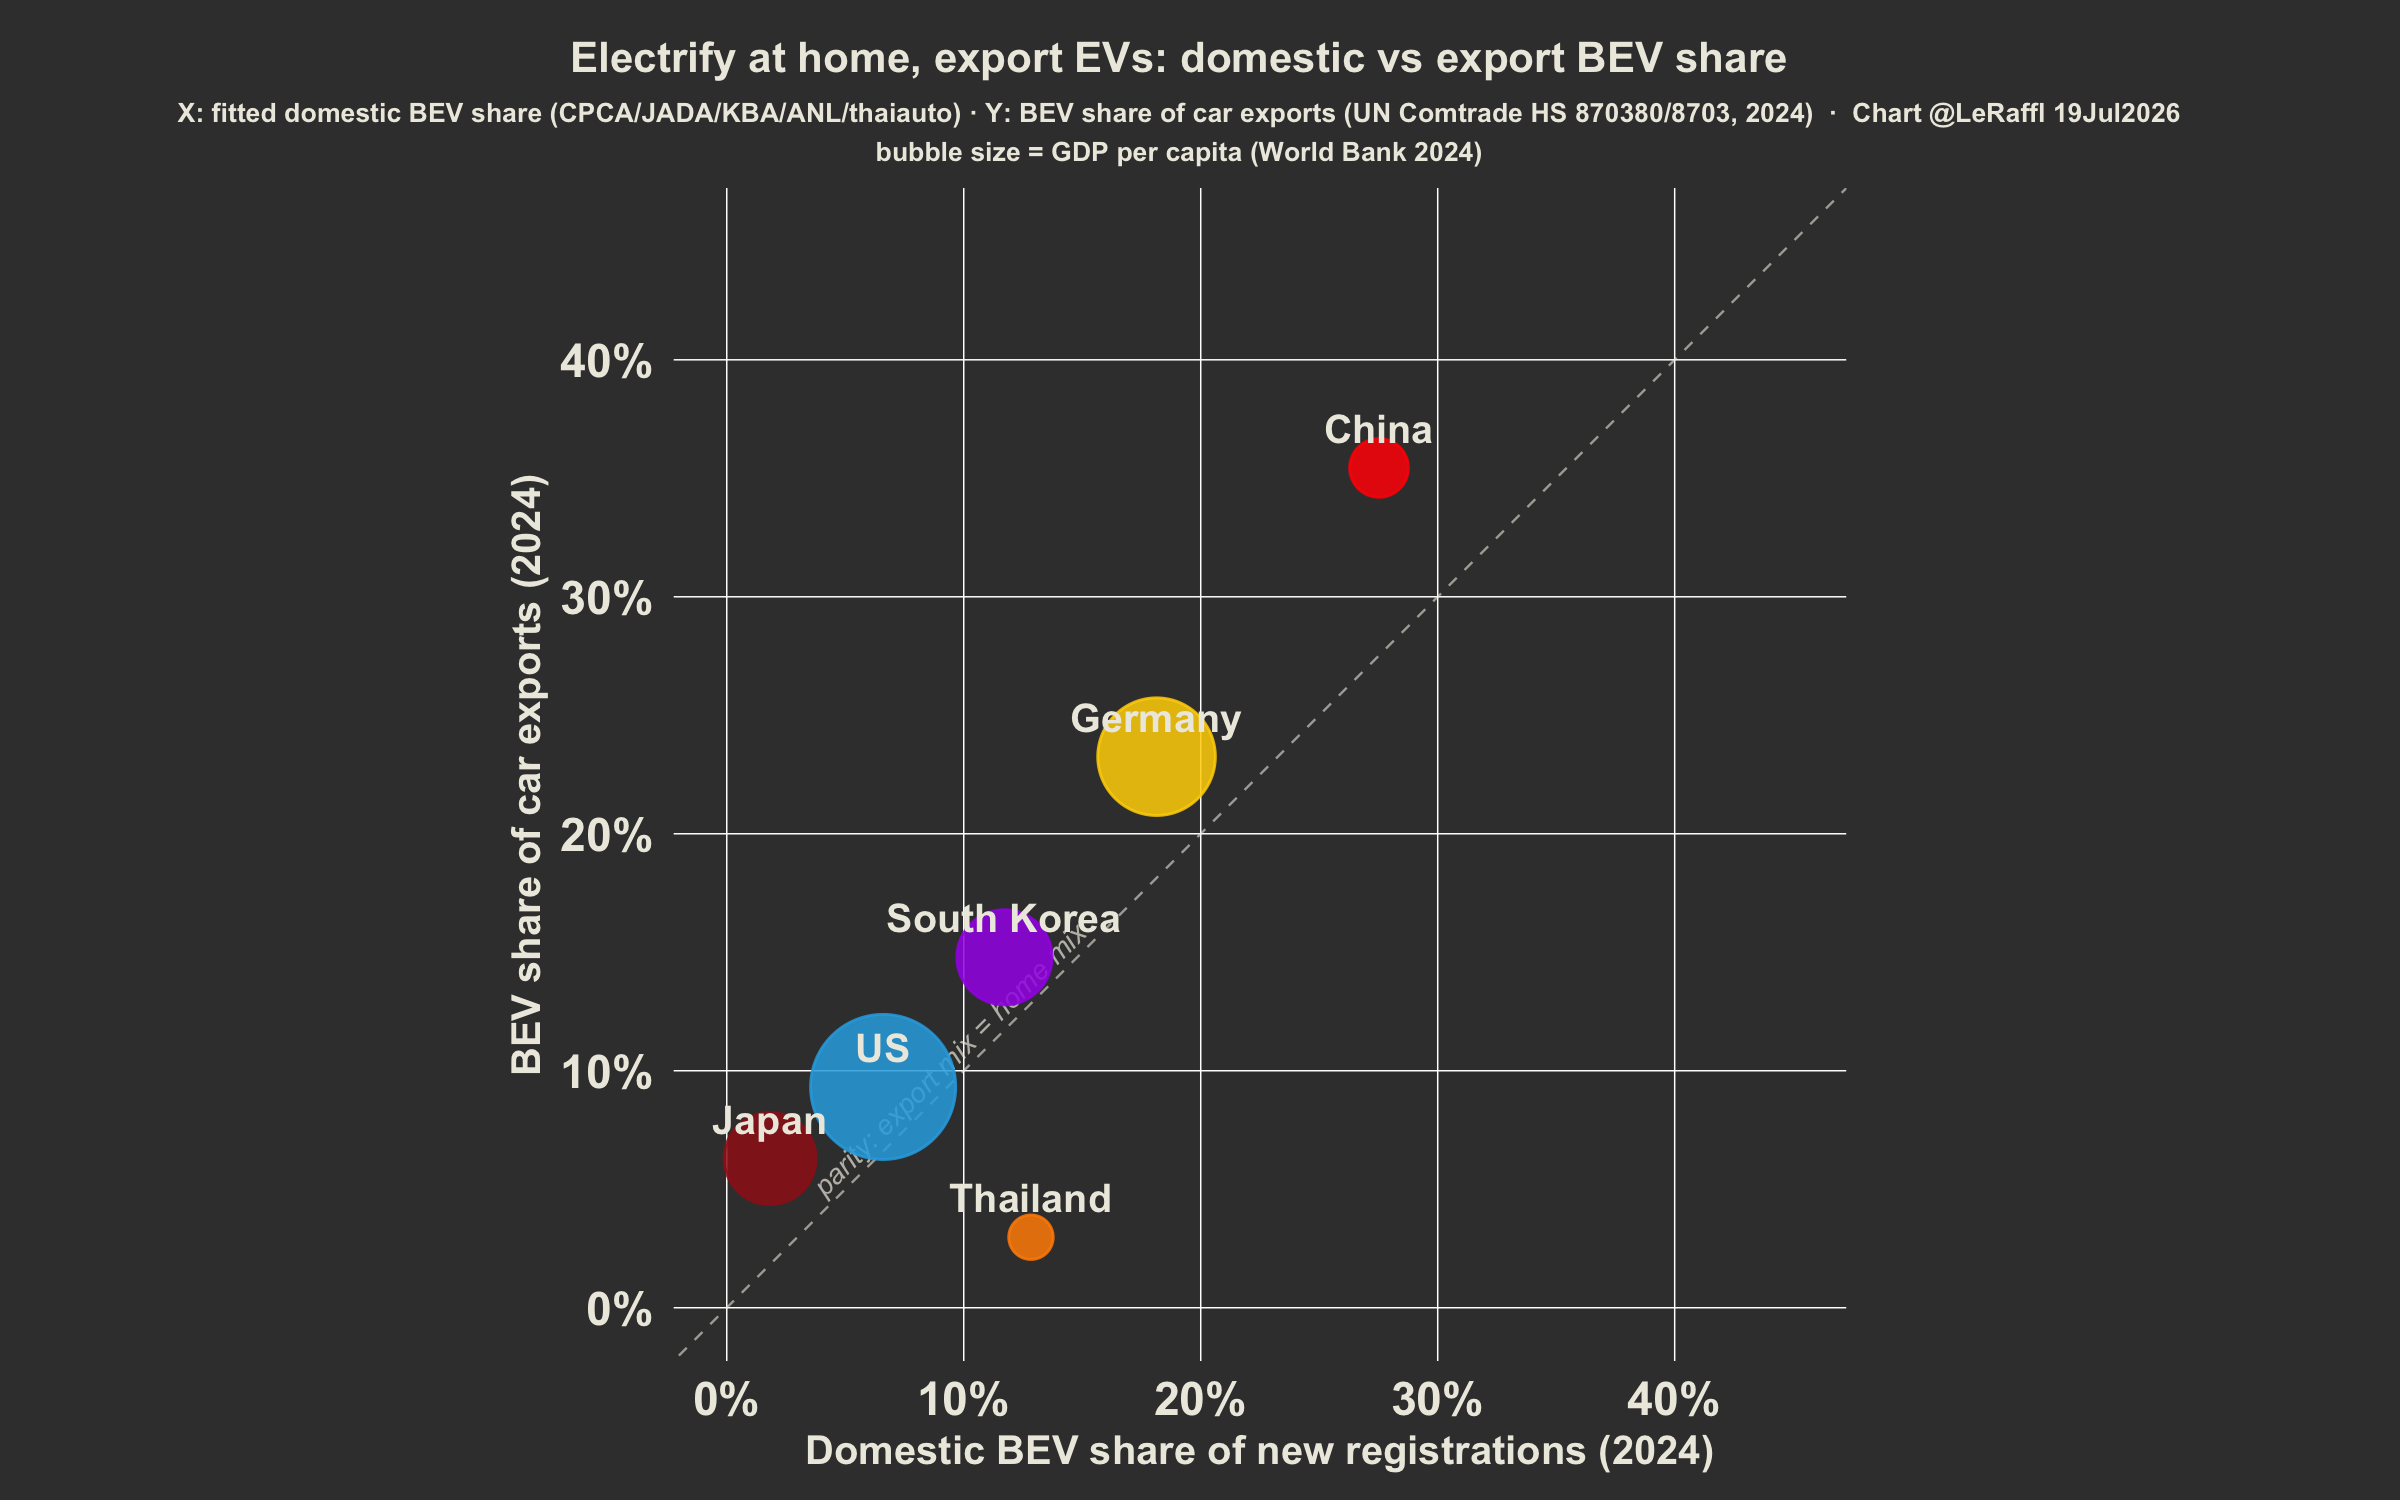
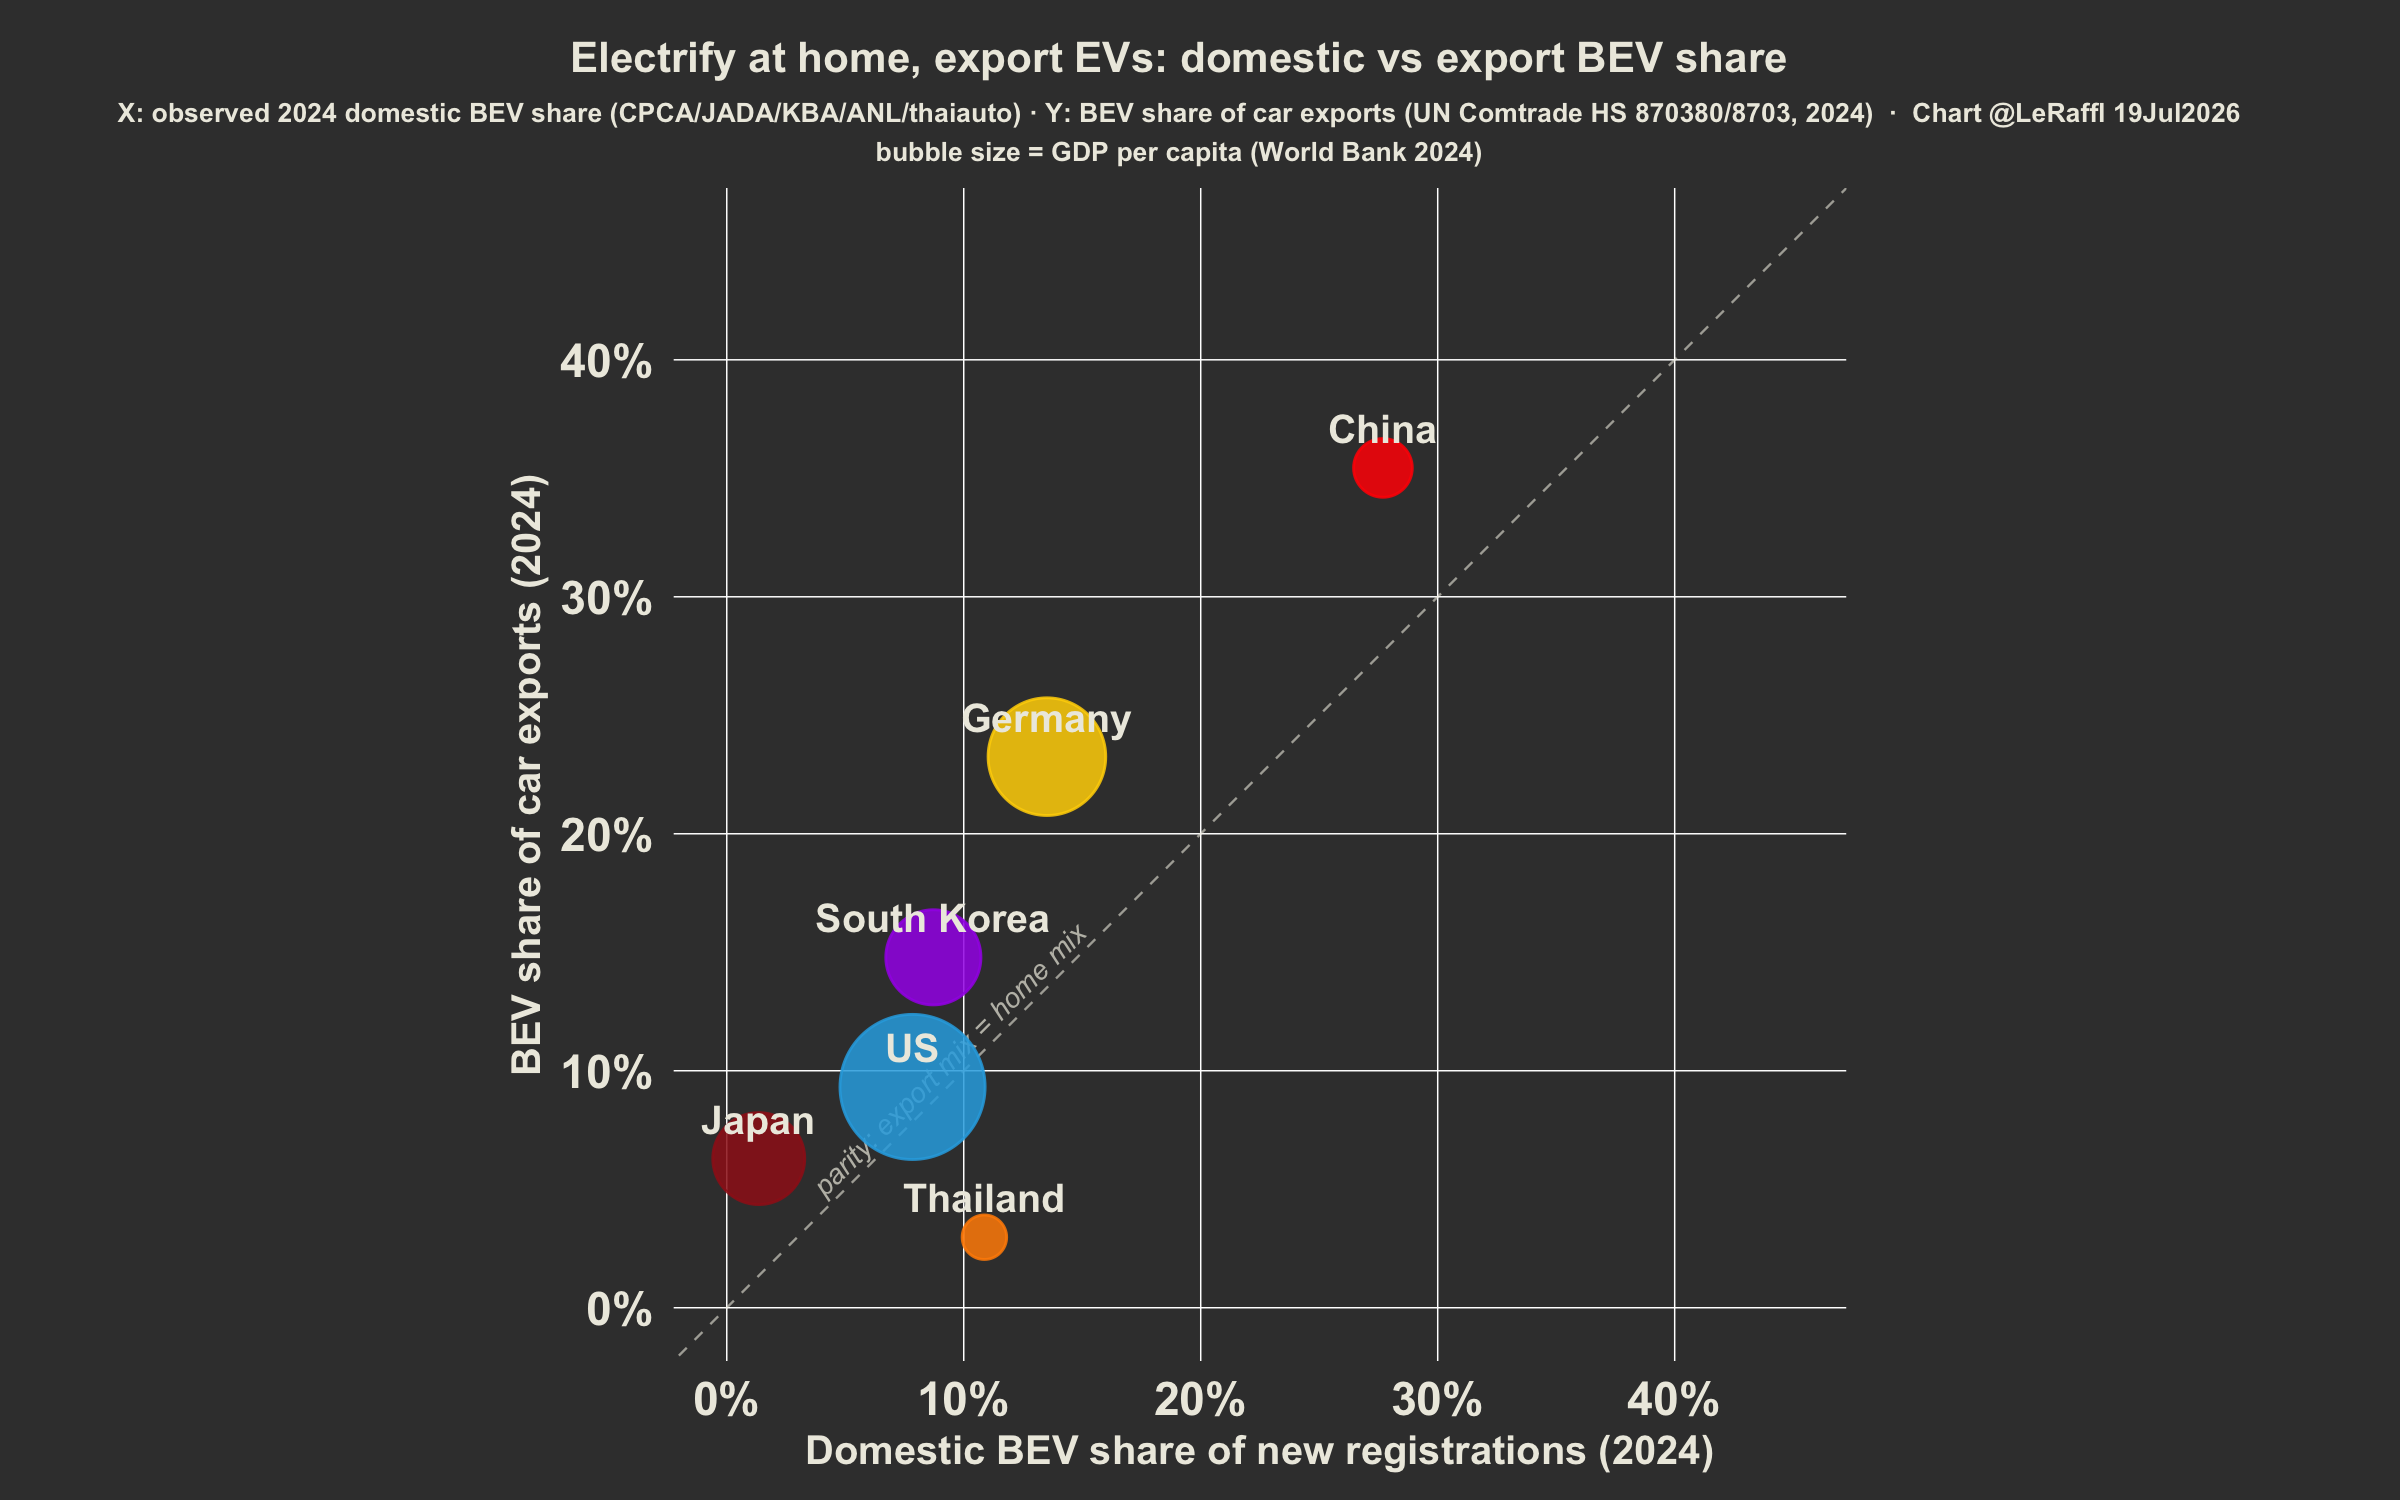
refactor(charts): use observed 2024 BEV share on scatter X-axis
Replace the fitted-curve X value with raw sum(BEV)/sum(TOTAL) from each
country's 2024 CSV rows, so both axes are actual observed data rather than
model output. Caption and methodology updated; values shift (e.g. Germany
18.1% fitted -> 13.5% observed).

diff --git a/exports/ray_article/export_scatter_METHODOLOGY.md b/exports/ray_article/export_scatter_METHODOLOGY.md
@@ -13,13 +13,13 @@ Thailand — the same six as the domestic BEV-share charts). Snapshot year: **20
 ### X — Domestic BEV share of new registrations (2024)
 - **What it is:** share of that country's *new vehicle registrations at home* that
   are battery-electric (BEV only, excludes PHEV/HEV/ICE).
-- **Source:** this repository's own fitted BEV-share trajectories (`params.csv`),
-  the same Weibull fits used across the gallery. Underlying registration data:
+- **Source:** raw observed data from this repository's country CSVs
+  (`data/<Country>.csv`) — **not** the fitted model. Underlying registration data:
   CPCA (China), JADA/JAMA (Japan), KBA (Germany), molit.go.kr (South Korea),
   ANL/StatCan (US), data.thaiauto.or.th (Thailand).
-- **How the number is taken:** the fitted curve evaluated at **mid-2024**
-  (internal time `x = 2023.5`), so it represents the full calendar year 2024 and
-  is time-aligned with the Y-axis. It is a smoothed fit, not a raw monthly point.
+- **How the number is taken:** `sum(BEV) / sum(TOTAL)` over the 2024 rows. Every
+  country reports 2024 as clean monthly data, so there is no interval overlap to
+  double-count. Actual figures, time-aligned with the 2024 export data on Y.
 
 ### Y — BEV share of car exports (2024)
 - **What it is:** share of that country's *passenger-car exports, by value*, that
@@ -45,12 +45,12 @@ Thailand — the same six as the domestic BEV-share charts). Snapshot year: **20
 
 | Country | Domestic BEV share | BEV export share | Production (OICA) | GDP/capita (WB) |
 |---|---|---|---|---|
-| China | 27.5% | 35.4% | 31,281,592 | $13,293 |
-| Germany | 18.1% | 23.3% | 4,069,222 | $56,104 |
-| South Korea | 11.7% | 14.8% | 4,127,252 | $36,239 |
-| Thailand | 12.8% | 3.0% | 1,468,997 | $7,387 |
-| US | 6.6% | 9.3% | 10,562,188 | $86,170 |
-| Japan | 1.8% | 6.3% | 8,234,681 | $33,797 |
+| China | 27.7% | 35.4% | 31,281,592 | $13,293 |
+| Germany | 13.5% | 23.3% | 4,069,222 | $56,104 |
+| South Korea | 8.7% | 14.8% | 4,127,252 | $36,239 |
+| Thailand | 10.9% | 3.0% | 1,468,997 | $7,387 |
+| US | 7.8% | 9.3% | 10,562,188 | $86,170 |
+| Japan | 1.3% | 6.3% | 8,234,681 | $33,797 |
 
 (Export shares recomputed live from Comtrade on each run; small revisions to
 Comtrade back-data can shift them slightly.)
@@ -83,5 +83,6 @@ up-right; with n=6 a regression line would be statistically thin and is not draw
 - **Comtrade aggregate row must be forced** (`partner2Code=0&motCode=0&customsCode=C00`),
   otherwise the API returns per-transport-mode sub-rows that double-count on
   summation (raw Germany summed to a false ~$159B vs the true ~$40B aggregate).
-- **X and Y are both 2024** but from different pipelines (fitted domestic curve vs
-  actual trade), so exact comparability has the usual fit-vs-observed slack.
+- **X and Y are both observed 2024** — X from registration CSVs, Y from Comtrade
+  trade records. Both are actual data, not modelled; the only slack is the usual
+  registration-vs-customs definitional difference between the two sources.
